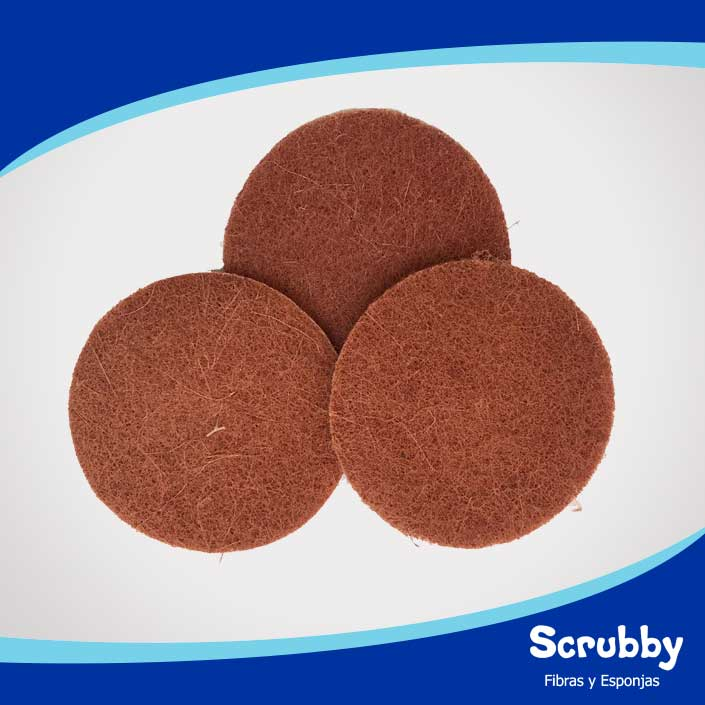
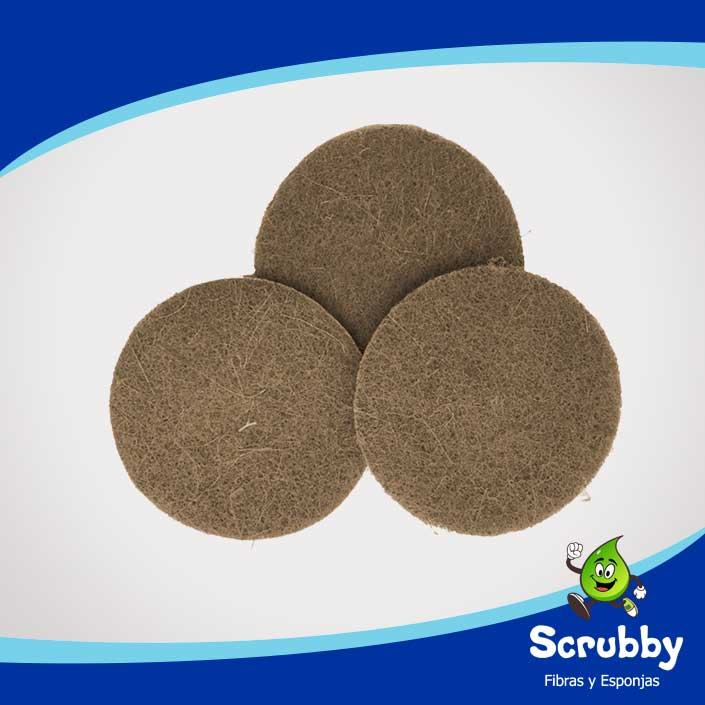
imagenes nuevas

diff --git a/index.html b/index.html
@@ -185,13 +185,13 @@
 			<div class="row justify-content-center py-5">
 
 				<div class="col-12 mt-5 os-animation" data-animation="animate__animated animate__fadeInUp">
-					<h3 class="heading">Nuestro Catálogo</h3>
+					<h3 class="heading">LO NUEVO EN CATALOGO</h3>
 					<div class="heading-underline"></div>
 				</div>
 
 				<div class="col-sm-6 col-md-3 p-0 os-animation" data-animation="animate__animated animate__bounceInLeft" data-delay=".2s">
 					<div class="portfolio-item">
-						<a href="img/portfolio/fibra_metalica.jpg" data-lightbox="example-set" data-title="Fibra Metalica para uso rudo 20gr, 25gr y jumbo.">
+						<a href="img/portfolio/fibra_metalica.jpg" data-lightbox="example-set" data-title="Fibra Metalica para uso rudo disponible en 20gr, 25gr y 50gr.">
 							<img src="img/portfolio/fibra_metalica_scrubby.jpg" alt="fibra metalica galvanizada" class="example-image w-100">
 						</a>
 					</div>
@@ -199,8 +199,8 @@
 
 				<div class="col-sm-6 col-md-3 p-0 os-animation" data-animation="animate__animated animate__bounceInLeft">
 					<div class="portfolio-item">
-						<a href="img/portfolio/fibra_de_agave.jpg" data-lightbox="example-set" data-title="Fibra ecólogica rectangular hecha de fibras naturales incluyendo agave. Tamaño extra grande y mediana">
-							<img src="img/portfolio/fibra_de_agave_scrubby.jpg" alt="fibra de agave ecologica" class="example-image w-100">
+						<a href="img/portfolio/fibra-esponja-ochito-doble.jpg" data-lightbox="example-set" data-title="Fibra Esponja en forma de ochito - paquete doble">
+							<img src="img/portfolio/fibra-esponja-ochito-doble-scrubby.jpg" alt="fibra esponja ochito" class="example-image w-100">
 						</a>
 					</div>
 				</div>
